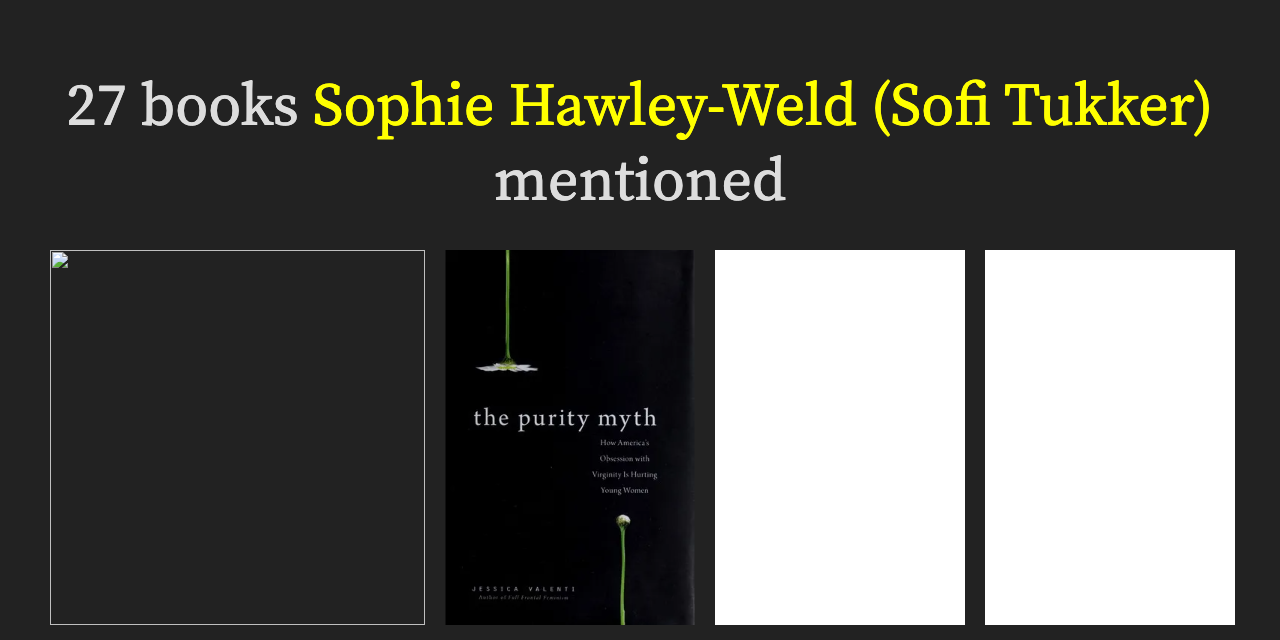
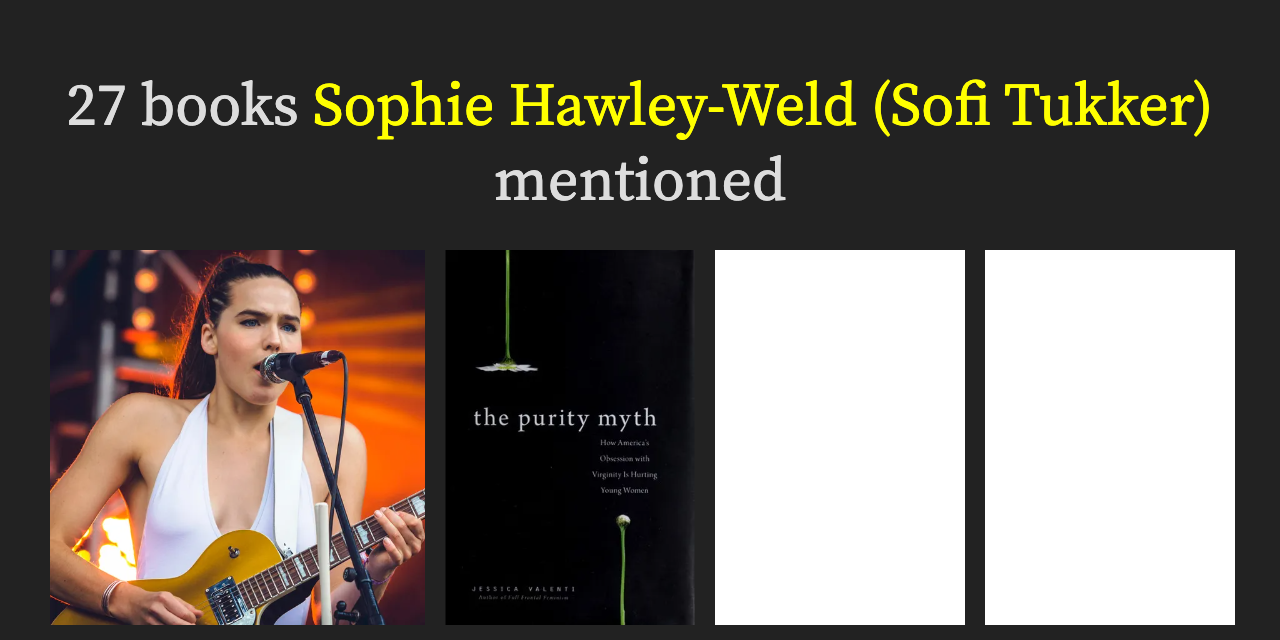
regen

Changed region(s): [[0.0312, 0.375, 0.3438, 1.0]]

diff --git a/sophie-hawley-weld-sofi-tukker/books/index.html b/sophie-hawley-weld-sofi-tukker/books/index.html
@@ -1,4 +1,4 @@
-<!doctype html><html lang="en"><head><meta charSet="utf-8"/><meta name="viewport" content="width=device-width, initial-scale=1"/><link rel="icon" href="https://recommentions.com/favicon.png" sizes="32x32"/><link rel="preconnect" href="https://fonts.googleapis.com"/><link rel="preconnect" href="https://fonts.gstatic.com" crossorigin=""/><link rel="preload" href="https://fonts.googleapis.com/css2?family=Source+Serif+Pro:ital@0;1&amp;display=swap" as="style"/><script>document.currentScript.previousElementSibling.onload=(event)=>{event.target.onload=null;event.target.rel='stylesheet'}</script><noscript><link href="https://fonts.googleapis.com/css2?family=Source+Serif+Pro:ital@0;1&amp;display=swap" rel="stylesheet"/></noscript><style>*{box-sizing:border-box}body{color:#222;font-family:"Source Serif Pro";font-size:22px;max-width:960px;margin:0 auto;padding:20px}u,a{color:currentColor;box-shadow:inset 0em -0.55em palegoldenrod;text-decoration:none}a.block{display:block;box-shadow:none}a.affiliate{box-shadow:inset 0em -0.55em lightgreen}li{margin:.5em 0}blockquote,nav,details,figure,p{margin:0;margin-bottom:1em}blockquote{position:relative;overflow-wrap:break-word}blockquote::before{content:"“";position:absolute;top:-0.1em;left:-0.6em;font-size:2em}blockquote.twitter-tweet{border:1px solid black;padding:20px}blockquote.twitter-tweet::before{content:""}summary{display:block}summary::marker{content:""}summary::-webkit-details-marker{display:none}summary u{cursor:pointer}img{display:block}img.inline{display:inline;vertical-align:bottom}p img{display:inline;vertical-align:middle}.book-detailed-mentions figure,.book-ranking figure{flex:0 0 240px;margin:0}.book-detailed-mentions img,.book-ranking img{margin:0 auto;max-width:200px}.book-ranking{padding:0}.book-ranking li{margin:1em 0}.book-detailed-mentions,.about,.on-reading{margin:1em 0}.about-list,.book-ranking li,.book-detailed-mentions,.on-reading{display:flex;flex-wrap:wrap;justify-content:space-between;column-gap:30px}.flex-main{flex-basis:550px;max-width:550px;margin-bottom:1em}.flex-side{flex-basis:340px;margin-bottom:1em}.book-detailed-mentions .with-count,.book-ranking .with-count{display:flex}.load-more-books{background:#fff;font-size:14px;padding:10px 20px;font-weight:600;color:currentColor;border:1px solid currentColor;border-radius:10px;cursor:pointer;transition:all .3s ease-in-out}.load-more-books:hover{filter:invert(1)}li{margin-bottom:2em}.about+ol{padding:0}.full-width{width:100vw;margin-left:-50vw;margin-right:-50vw;left:50%;position:relative;right:50%}.full-width>*{max-width:1280px;padding:0px;margin:2em auto;display:flex;flex-wrap:wrap;justify-content:center}.about+ol li{margin-bottom:0;display:block}body>p{margin:2em 0;margin-left:370px}.book-detailed-mentions ol{margin:0}.mentions-count{width:100px;text-decoration:none;text-shadow:none;box-shadow:none}.mentions-count span{font-size:3em}figcaption{font-size:.7em;margin-top:.5em;opacity:.7}.youtube{position:relative;padding-bottom:56.25%;height:0}.youtube iframe{position:absolute;top:0;left:0;width:100%;height:100%}img[src$="placeholder.png"]{filter:invert(10%)}[data-fade=true]{max-height:12.5em;overflow-y:hidden;position:relative}[data-fade=true]::after{content:"";position:absolute;bottom:0;left:0;right:0;height:2em;background-image:linear-gradient(rgba(255, 255, 255, 0), rgba(255, 255, 255, 1))}.unquote{font-style:italic}.home-tiles:hover img{filter:grayscale(1)}.home-tiles figcaption{display:flex;align-items:center;justify-content:center;text-align:center;font-size:1em;opacity:1}span.count{background:white;color:black;border-radius:5px;padding:2px 5px;font-size:20px;position:absolute;right:-5px;bottom:-5px;font-weight:bold}@media(max-width: 960px){body{max-width:590px;font-size:18px}blockquote::before{content:"“";position:absolute;top:0;left:-0.5em;font-size:1em;font-size:1.2em}.flex-main,.flex-side{flex-basis:550px;max-width:100%}.book-ranking figure{flex-grow:1}.book-ranking img{margin:0;margin-left:auto}figure img:not(.inline){height:150px;width:auto}}</style><meta name="twitter:site" content="@recommentions"/><meta name="twitter:creator" content="@recommentions"/><meta name="twitter:title" content="27 books Sophie Hawley-Weld (Sofi Tukker) mentioned, ranked!"/><meta name="twitter:description" content="Ranking of every book mentioned by Sophie Hawley-Weld (Sofi Tukker). The more mentions, the more likely it&#x27;s highly recommended and a favorite."/><meta property="og:site_name" content="Recommentions"/><meta property="og:title" content="27 books Sophie Hawley-Weld (Sofi Tukker) mentioned, ranked!"/><meta property="og:url" content="https://recommentions.com/sophie-hawley-weld-sofi-tukker/books/"/><meta property="og:description" content="Ranking of every book mentioned by Sophie Hawley-Weld (Sofi Tukker). The more mentions, the more likely it&#x27;s highly recommended and a favorite."/><title>27 books Sophie Hawley-Weld (Sofi Tukker) mentioned, ranked!</title><meta name="description" content="Ranking of every book mentioned by Sophie Hawley-Weld (Sofi Tukker). The more mentions, the more likely it&#x27;s highly recommended and a favorite."/><link rel="canonical" href="https://recommentions.com/sophie-hawley-weld-sofi-tukker/books/"/><meta name="twitter:card" content="summary_large_image"/><meta name="twitter:image" content="https://recommentions.com/sophie-hawley-weld-sofi-tukker/books/card.png?"/><meta property="og:type" content="article"/><meta property="og:image" content="https://recommentions.com/sophie-hawley-weld-sofi-tukker/books/card.png?"/><meta property="og:image:width" content="640"/><meta property="og:image:height" content="1280"/><meta property="og:image:alt" content="27 books Sophie Hawley-Weld (Sofi Tukker) mentioned, ranked!"/></head><body><nav><a href="../../">Recommentions</a></nav><h1>27 books Sophie Hawley-Weld (Sofi Tukker) mentioned, ranked!</h1><div class="on-reading"><figure class="flex-side"><img src="../profile.webp" alt="Sophie Hawley-Weld (Sofi Tukker)" height="300" width="300"/><figcaption>Credit: </figcaption></figure><div class="flex-main"><p>This list is curated from 31 mentions and sorted by most mentioned, then by date of most recent mention. The more a book is mentioned, the more likely it&#x27;s recommended and a favorite... or they just like talking about it a lot!</p><p><small>Last updated: <time dateTime="2024-08-25">25 August 2024</time>.</small></p></div></div><ol class="book-ranking"><li id="the-purity-myth-by-jessica-valenti"><div class="flex-side with-count"><a href="the-purity-myth-by-jessica-valenti/" class="mentions-count"><span>2</span><br/>mentions</a><figure><img src="../../open-covers/10020347.webp" alt="The Purity Myth by Jessica Valenti" height="300" loading="lazy"/></figure></div><div class="flex-main"><p style="margin-top:0;font-size:1.2em" class="title"><a href="/books/the-purity-myth-by-jessica-valenti/"><em>The Purity Myth</em></a><br/><small> by Jessica Valenti</small></p><blockquote class="curly-quote" data-fade="false" style="white-space:pre-wrap">I was thinking a lot about power and purity when we wrote the lyrics for Bread. I had just read “The Purity Myth” by Jessica Valenti and I was experimenting with my glutenfreeness and somehow the word Bread encapsulated so many of the themes I was dancing around… Desire. Energy. Shame. Religion. Pão… de Açucar. Money. Abundance. Scarcity. Family. Sensuality. Does bread mean literally everything??</blockquote><p>— Sophie Hawley-Weld (Sofi Tukker)</p><p><a href="the-purity-myth-by-jessica-valenti/"><small>View all 2 sources</small></a></p></div></li><li id="bending-reality-by-victoria-song"><div class="flex-side with-count"><a href="bending-reality-by-victoria-song/" class="mentions-count"><span>2</span><br/>mentions</a><figure><img src="../../placeholder.png" alt="Bending Reality by Victoria Song" height="300" loading="lazy"/></figure></div><div class="flex-main"><p style="margin-top:0;font-size:1.2em" class="title"><a href="/books/bending-reality-by-victoria-song/"><em>Bending Reality</em></a><br/><small> by Victoria Song</small></p><blockquote class="curly-quote" data-fade="false" style="white-space:pre-wrap">Spoke with the #madhappy podcast about mind health and feeling as a circle, inspired by the @VICTORIAeSONG book Bending Reality</blockquote><p>— Sophie Hawley-Weld (Sofi Tukker)</p><p><a href="bending-reality-by-victoria-song/"><small>View all 2 sources</small></a></p></div></li><li id="kink-by-r-o-kwon"><div class="flex-side with-count"><a href="kink-by-r-o-kwon/" class="mentions-count"><span>2</span><br/>mentions</a><figure><img src="../../placeholder.png" alt="Kink by R. O. Kwon" height="300" loading="lazy"/></figure></div><div class="flex-main"><p style="margin-top:0;font-size:1.2em" class="title"><a href="/books/kink-by-r-o-kwon/"><em>Kink</em></a><br/><small> by R. O. Kwon</small></p><blockquote class="curly-quote" data-fade="false" style="white-space:pre-wrap">Book I’m reading
+<!doctype html><html lang="en"><head><meta charSet="utf-8"/><meta name="viewport" content="width=device-width, initial-scale=1"/><link rel="icon" href="https://recommentions.com/favicon.png" sizes="32x32"/><link rel="preconnect" href="https://fonts.googleapis.com"/><link rel="preconnect" href="https://fonts.gstatic.com" crossorigin=""/><link rel="preload" href="https://fonts.googleapis.com/css2?family=Source+Serif+Pro:ital@0;1&amp;display=swap" as="style"/><script>document.currentScript.previousElementSibling.onload=(event)=>{event.target.onload=null;event.target.rel='stylesheet'}</script><noscript><link href="https://fonts.googleapis.com/css2?family=Source+Serif+Pro:ital@0;1&amp;display=swap" rel="stylesheet"/></noscript><style>*{box-sizing:border-box}body{color:#222;font-family:"Source Serif Pro";font-size:22px;max-width:960px;margin:0 auto;padding:20px}u,a{color:currentColor;box-shadow:inset 0em -0.55em palegoldenrod;text-decoration:none}a.block{display:block;box-shadow:none}a.affiliate{box-shadow:inset 0em -0.55em lightgreen}li{margin:.5em 0}blockquote,nav,details,figure,p{margin:0;margin-bottom:1em}blockquote{position:relative;overflow-wrap:break-word}blockquote::before{content:"“";position:absolute;top:-0.1em;left:-0.6em;font-size:2em}blockquote.twitter-tweet{border:1px solid black;padding:20px}blockquote.twitter-tweet::before{content:""}summary{display:block}summary::marker{content:""}summary::-webkit-details-marker{display:none}summary u{cursor:pointer}img{display:block}img.inline{display:inline;vertical-align:bottom}p img{display:inline;vertical-align:middle}.book-detailed-mentions figure,.book-ranking figure{flex:0 0 240px;margin:0}.book-detailed-mentions img,.book-ranking img{margin:0 auto;max-width:200px}.book-ranking{padding:0}.book-ranking li{margin:1em 0}.book-detailed-mentions,.about,.on-reading{margin:1em 0}.about-list,.book-ranking li,.book-detailed-mentions,.on-reading{display:flex;flex-wrap:wrap;justify-content:space-between;column-gap:30px}.flex-main{flex-basis:550px;max-width:550px;margin-bottom:1em}.flex-side{flex-basis:340px;margin-bottom:1em}.book-detailed-mentions .with-count,.book-ranking .with-count{display:flex}.load-more-books{background:#fff;font-size:14px;padding:10px 20px;font-weight:600;color:currentColor;border:1px solid currentColor;border-radius:10px;cursor:pointer;transition:all .3s ease-in-out}.load-more-books:hover{filter:invert(1)}li{margin-bottom:2em}.about+ol{padding:0}.full-width{width:100vw;margin-left:-50vw;margin-right:-50vw;left:50%;position:relative;right:50%}.full-width>*{max-width:1280px;padding:0px;margin:2em auto;display:flex;flex-wrap:wrap;justify-content:center}.about+ol li{margin-bottom:0;display:block}body>p{margin:2em 0;margin-left:370px}.book-detailed-mentions ol{margin:0}.mentions-count{width:100px;text-decoration:none;text-shadow:none;box-shadow:none}.mentions-count span{font-size:3em}figcaption{font-size:.7em;margin-top:.5em;opacity:.7}.youtube{position:relative;padding-bottom:56.25%;height:0}.youtube iframe{position:absolute;top:0;left:0;width:100%;height:100%}img[src$="placeholder.png"]{filter:invert(10%)}[data-fade=true]{max-height:12.5em;overflow-y:hidden;position:relative}[data-fade=true]::after{content:"";position:absolute;bottom:0;left:0;right:0;height:2em;background-image:linear-gradient(rgba(255, 255, 255, 0), rgba(255, 255, 255, 1))}.unquote{font-style:italic}.home-tiles:hover img{filter:grayscale(1)}.home-tiles figcaption{display:flex;align-items:center;justify-content:center;text-align:center;font-size:1em;opacity:1}span.count{background:white;color:black;border-radius:5px;padding:2px 5px;font-size:20px;position:absolute;right:-5px;bottom:-5px;font-weight:bold}@media(max-width: 960px){body{max-width:590px;font-size:18px}blockquote::before{content:"“";position:absolute;top:0;left:-0.5em;font-size:1em;font-size:1.2em}.flex-main,.flex-side{flex-basis:550px;max-width:100%}.book-ranking figure{flex-grow:1}.book-ranking img{margin:0;margin-left:auto}figure img:not(.inline){height:150px;width:auto}}</style><meta name="twitter:site" content="@recommentions"/><meta name="twitter:creator" content="@recommentions"/><meta name="twitter:title" content="27 books Sophie Hawley-Weld (Sofi Tukker) mentioned, ranked!"/><meta name="twitter:description" content="Ranking of every book mentioned by Sophie Hawley-Weld (Sofi Tukker). The more mentions, the more likely it&#x27;s highly recommended and a favorite."/><meta property="og:site_name" content="Recommentions"/><meta property="og:title" content="27 books Sophie Hawley-Weld (Sofi Tukker) mentioned, ranked!"/><meta property="og:url" content="https://recommentions.com/sophie-hawley-weld-sofi-tukker/books/"/><meta property="og:description" content="Ranking of every book mentioned by Sophie Hawley-Weld (Sofi Tukker). The more mentions, the more likely it&#x27;s highly recommended and a favorite."/><title>27 books Sophie Hawley-Weld (Sofi Tukker) mentioned, ranked!</title><meta name="description" content="Ranking of every book mentioned by Sophie Hawley-Weld (Sofi Tukker). The more mentions, the more likely it&#x27;s highly recommended and a favorite."/><link rel="canonical" href="https://recommentions.com/sophie-hawley-weld-sofi-tukker/books/"/><meta name="twitter:card" content="summary_large_image"/><meta name="twitter:image" content="https://recommentions.com/sophie-hawley-weld-sofi-tukker/books/card.png?"/><meta property="og:type" content="article"/><meta property="og:image" content="https://recommentions.com/sophie-hawley-weld-sofi-tukker/books/card.png?"/><meta property="og:image:width" content="640"/><meta property="og:image:height" content="1280"/><meta property="og:image:alt" content="27 books Sophie Hawley-Weld (Sofi Tukker) mentioned, ranked!"/></head><body><nav><a href="../../">Recommentions</a></nav><h1>27 books Sophie Hawley-Weld (Sofi Tukker) mentioned, ranked!</h1><div class="on-reading"><figure class="flex-side"><img src="../profile.webp" alt="Sophie Hawley-Weld (Sofi Tukker)" height="300" width="300"/><figcaption>Credit: Krists Luhaers</figcaption></figure><div class="flex-main"><p>This list is curated from 31 mentions and sorted by most mentioned, then by date of most recent mention. The more a book is mentioned, the more likely it&#x27;s recommended and a favorite... or they just like talking about it a lot!</p><p><small>Last updated: <time dateTime="2024-08-25">25 August 2024</time>.</small></p></div></div><ol class="book-ranking"><li id="the-purity-myth-by-jessica-valenti"><div class="flex-side with-count"><a href="the-purity-myth-by-jessica-valenti/" class="mentions-count"><span>2</span><br/>mentions</a><figure><img src="../../open-covers/10020347.webp" alt="The Purity Myth by Jessica Valenti" height="300" loading="lazy"/></figure></div><div class="flex-main"><p style="margin-top:0;font-size:1.2em" class="title"><a href="/books/the-purity-myth-by-jessica-valenti/"><em>The Purity Myth</em></a><br/><small> by Jessica Valenti</small></p><blockquote class="curly-quote" data-fade="false" style="white-space:pre-wrap">I was thinking a lot about power and purity when we wrote the lyrics for Bread. I had just read “The Purity Myth” by Jessica Valenti and I was experimenting with my glutenfreeness and somehow the word Bread encapsulated so many of the themes I was dancing around… Desire. Energy. Shame. Religion. Pão… de Açucar. Money. Abundance. Scarcity. Family. Sensuality. Does bread mean literally everything??</blockquote><p>— Sophie Hawley-Weld (Sofi Tukker)</p><p><a href="the-purity-myth-by-jessica-valenti/"><small>View all 2 sources</small></a></p></div></li><li id="bending-reality-by-victoria-song"><div class="flex-side with-count"><a href="bending-reality-by-victoria-song/" class="mentions-count"><span>2</span><br/>mentions</a><figure><img src="../../placeholder.png" alt="Bending Reality by Victoria Song" height="300" loading="lazy"/></figure></div><div class="flex-main"><p style="margin-top:0;font-size:1.2em" class="title"><a href="/books/bending-reality-by-victoria-song/"><em>Bending Reality</em></a><br/><small> by Victoria Song</small></p><blockquote class="curly-quote" data-fade="false" style="white-space:pre-wrap">Spoke with the #madhappy podcast about mind health and feeling as a circle, inspired by the @VICTORIAeSONG book Bending Reality</blockquote><p>— Sophie Hawley-Weld (Sofi Tukker)</p><p><a href="bending-reality-by-victoria-song/"><small>View all 2 sources</small></a></p></div></li><li id="kink-by-r-o-kwon"><div class="flex-side with-count"><a href="kink-by-r-o-kwon/" class="mentions-count"><span>2</span><br/>mentions</a><figure><img src="../../placeholder.png" alt="Kink by R. O. Kwon" height="300" loading="lazy"/></figure></div><div class="flex-main"><p style="margin-top:0;font-size:1.2em" class="title"><a href="/books/kink-by-r-o-kwon/"><em>Kink</em></a><br/><small> by R. O. Kwon</small></p><blockquote class="curly-quote" data-fade="false" style="white-space:pre-wrap">Book I’m reading
 
 Kink by R.O Kwon and Breath: The New Science of A Lost Artby James Nestor.</blockquote><p>— Sophie Hawley-Weld (Sofi Tukker)</p><p><a href="kink-by-r-o-kwon/"><small>View all 2 sources</small></a></p></div></li><li id="21-lessons-for-the-21st-century-by-yuval-noah-harari"><div class="flex-side with-count"><a href="21-lessons-for-the-21st-century-by-yuval-noah-harari/" class="mentions-count"><span>2</span><br/>mentions</a><figure><img src="../../open-covers/10108277.webp" alt="21 Lessons for the 21st Century by Yuval Noah Harari" height="300" loading="lazy"/></figure></div><div class="flex-main"><p style="margin-top:0;font-size:1.2em" class="title"><a href="/books/21-lessons-for-the-21st-century-by-yuval-noah-harari/"><em>21 Lessons for the 21st Century</em></a><br/><small> by Yuval Noah Harari</small></p><blockquote class="curly-quote" data-fade="false" style="white-space:pre-wrap">[Sophie posts a photo reading this book]</blockquote><p>— Sophie Hawley-Weld (Sofi Tukker)</p><p><a href="21-lessons-for-the-21st-century-by-yuval-noah-harari/"><small>View all 2 sources</small></a></p></div></li><li id="unbound-by-kasia-urbaniak"><div class="flex-side with-count"><a href="unbound-by-kasia-urbaniak/" class="mentions-count"><span>1</span><br/>mention</a><figure><img src="../../placeholder.png" alt="Unbound by Kasia Urbaniak" height="300" loading="lazy"/></figure></div><div class="flex-main"><p style="margin-top:0;font-size:1.2em" class="title"><a href="/books/unbound-by-kasia-urbaniak/"><em>Unbound</em></a><br/><small> by Kasia Urbaniak</small></p><blockquote class="curly-quote" data-fade="false" style="white-space:pre-wrap">Thoughts, feelings? Agree, disagree? Bread? BREAD. 🥖🍞
 
